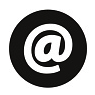
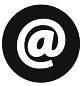
restyling contact page

diff --git a/_sass/theme/_websurvey.scss b/_sass/theme/_websurvey.scss
@@ -72,8 +72,12 @@ input[type="submit"] {
   text-align: center;
   a {
     img {
-      width: 90%;
-      height: 90%;
+      width: 80%;
+      height: 80%;
+      @include small {
+        width: 100%;
+        height: 100%;
+      }
     }
     &:focus,
     &:hover {

diff --git a/_sass/pages/_home.scss b/_sass/pages/_home.scss
@@ -132,6 +132,8 @@
     }
     img {
       margin-bottom:1em;
+      width: 95px;
+      height: 95px;
     }
     p {
       @include desktop {
